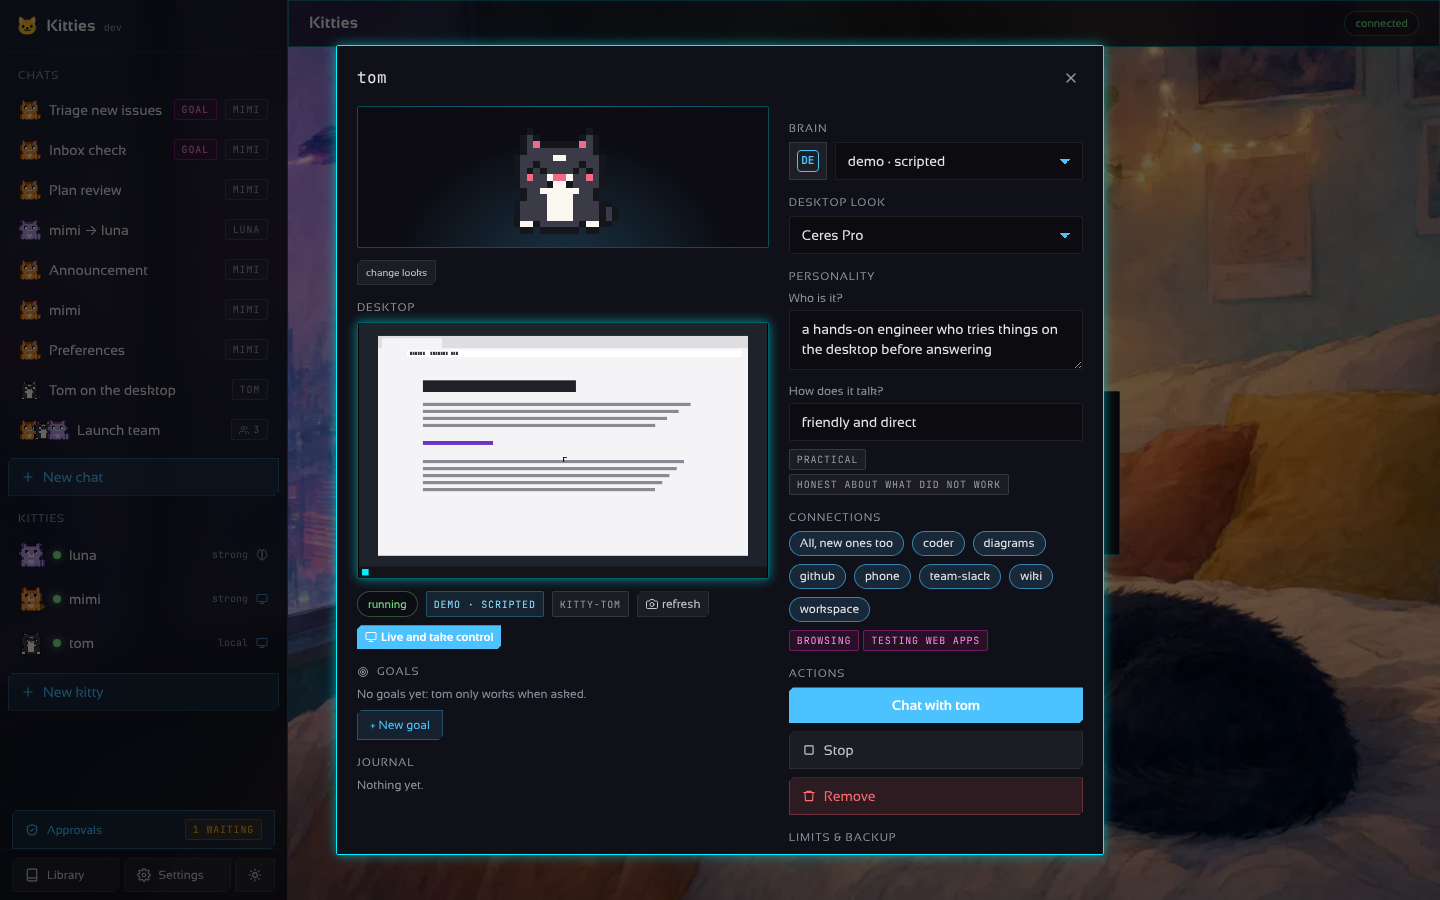
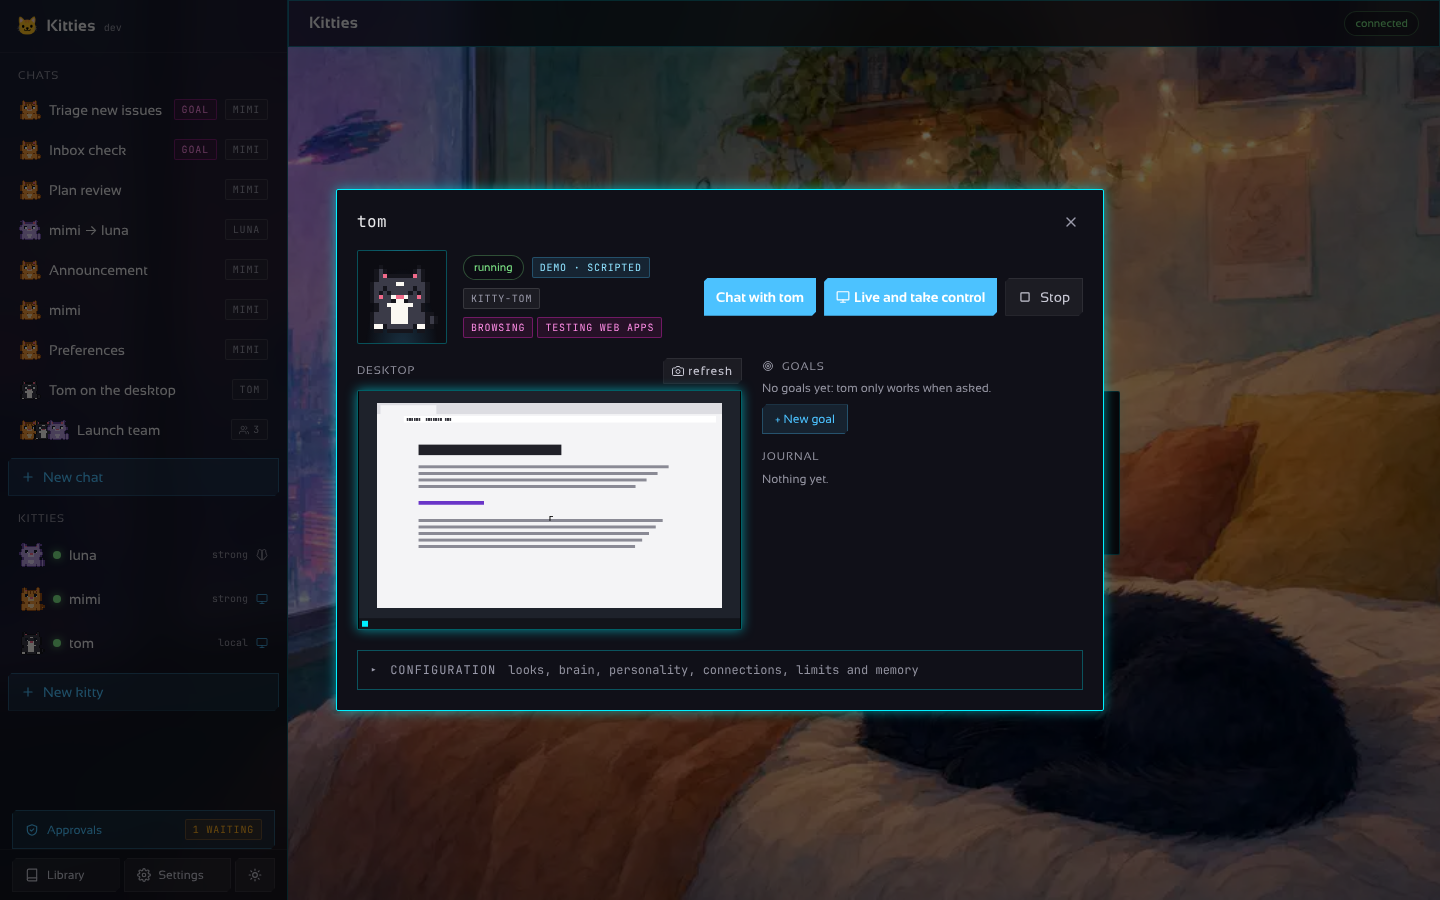
feat(desktop): kitty window shows what matters and folds its options away
The kitty's window now opens on what is worth watching: its status, brain,
skills, the chat/live/stop actions, its desktop, goals and journal. Everything
configurable (looks, brain, personality, connections, limits, memory, remove)
lives in a collapsed Configuration section laid out in two columns.

Claude-Session: https://claude.ai/code/session_01H6tmVU5JTfRPDskkjYUid1

Changed region(s): [[0.2188, 0.0311, 0.7812, 0.9644]]

diff --git a/desktop/frontend/src/Modals.tsx b/desktop/frontend/src/Modals.tsx
@@ -615,7 +615,6 @@ export function KittyDrawer({
   const [err, setErr] = useState("");
   const mood: Mood =
     kitty.status === "running" ? "happy" : kitty.status === "error" ? "error" : "sleeping";
-  const [looks, setLooks] = useState(false);
   const [models, setModels] = useState<ProviderInfo[]>([]);
   useEffect(() => {
     api
@@ -651,121 +650,126 @@ export function KittyDrawer({
   if (live) {
     return <LiveDesktop kitty={kitty} onClose={() => setLive(false)} />;
   }
+  const running = kitty.status === "running";
+  const model = models.find((m) => m.name === kitty.provider);
   return (
     <Modal title={kitty.name} onClose={onClose} wide>
-      <div class="grid md:grid-cols-[1.4fr_1fr] gap-5">
-        <div class="min-w-0">
-          <div class="avatar-stage mb-3">
-            <PixelCat
-              breed={kitty.avatar?.breed}
-              color={kitty.avatar?.color}
-              mood={mood}
-              size={112}
-            />
-          </div>
-          <div class="mood-row">
-            <button class="btn-ghost px-2 py-1" onClick={() => setLooks(!looks)}>
-              {looks ? t("done") : t("change looks")}
-            </button>
-          </div>
-          {looks && (
-            <div class="mt-3">
-              <CatPicker
-                breed={kitty.avatar?.breed || "tabby"}
-                color={kitty.avatar?.color || "orange"}
-                onChange={pick}
-              />
-            </div>
-          )}
-          <div class="section-title !mx-0 mt-4">{t("Desktop")}</div>
-          {kitty.desktop ? (
-            <Shot key={tick} path={`/v1/kitties/${kitty.id}/screenshot?t=${tick}`} big />
-          ) : (
-            <div class="live-shot flex items-center justify-center text-[var(--t4)] text-sm">
-              {t("brain only, no desktop")}
-            </div>
-          )}
-          <div class="flex gap-2 mt-3 flex-wrap">
+      <div class="flex items-center gap-4 flex-wrap" data-testid="kitty-header">
+        <div class="avatar-stage !p-2 !pt-3 shrink-0">
+          <PixelCat breed={kitty.avatar?.breed} color={kitty.avatar?.color} mood={mood} size={72} />
+        </div>
+        <div class="min-w-0 flex-1">
+          <div class="flex gap-2 flex-wrap items-center">
             <span
-              class={`state-pill ${kitty.status === "running" ? "is-ok" : kitty.status === "error" ? "is-off" : ""}`}
+              class={`state-pill ${running ? "is-ok" : kitty.status === "error" ? "is-off" : ""}`}
             >
               {kitty.status}
             </span>
             <span class="tag tag-accent">
-              {(() => {
-                const p = models.find((m) => m.name === kitty.provider);
-                return p ? modelLabel(p) : kitty.provider || t("no model");
-              })()}
+              {model ? modelLabel(model) : kitty.provider || t("no model")}
             </span>
             {kitty.desktop && <span class="tag">{kitty.container}</span>}
-            {kitty.desktop && kitty.status === "running" && (
-              <button
-                class="btn-ghost px-2 py-1 text-xs flex items-center gap-1"
-                onClick={() => setTick((t) => t + 1)}
-              >
-                <IconCamera size={12} /> {t("refresh")}
-              </button>
-            )}
-            {kitty.desktop && kitty.status === "running" && (
-              <button
-                class="btn-accent px-2 py-1 text-xs flex items-center gap-1"
-                onClick={() => setLive(true)}
-                data-testid="open-desktop"
-              >
-                <IconMonitor size={12} /> {t("Live and take control")}
-              </button>
-            )}
           </div>
-          {kitty.error && <p class="text-sm text-[var(--c-red)] mt-2">{kitty.error}</p>}
-          <GoalsPanel kitty={kitty} onOpenChat={onOpenChat} />
-          <JournalPanel kitty={kitty} onOpenChat={onOpenChat} />
-        </div>
-        <div class="text-sm">
-          <KittyBasics kitty={kitty} models={models} onChanged={onChanged} />
           {soul.skills && soul.skills.length > 0 && (
             <div class="flex flex-wrap gap-1 mt-2">
-              {soul.skills.map((t) => (
-                <span key={t} class="tag tag-magenta">
-                  {t}
+              {soul.skills.map((s) => (
+                <span key={s} class="tag tag-magenta">
+                  {s}
                 </span>
               ))}
             </div>
           )}
-          <div class="section-title !mx-0 mt-5">{t("Actions")}</div>
-          <div class="flex flex-col gap-2">
-            <button class="btn-accent px-3 py-2 text-sm" onClick={onChat}>
-              {t("Chat with {name}", { name: kitty.name })}
-            </button>
-            {kitty.status === "running" ? (
-              <button
-                class="btn-ghost px-3 py-2 text-sm flex items-center gap-2"
-                onClick={() => act(() => api.stopKitty(kitty.id))}
-              >
-                <IconStop size={14} /> {t("Stop")}
-              </button>
-            ) : (
-              <button
-                class="btn-ghost px-3 py-2 text-sm flex items-center gap-2"
-                onClick={() => act(() => api.startKitty(kitty.id))}
-              >
-                <IconPlay size={14} /> {t("Start")}
-              </button>
-            )}
+          {kitty.error && <p class="text-sm text-[var(--c-red)] mt-2">{kitty.error}</p>}
+        </div>
+        <div class="flex gap-2 flex-wrap" data-testid="kitty-actions">
+          <button class="btn-accent px-3 py-2 text-sm" onClick={onChat}>
+            {t("Chat with {name}", { name: kitty.name })}
+          </button>
+          {kitty.desktop && running && (
             <button
-              class="btn-danger px-3 py-2 text-sm flex items-center gap-2"
-              onClick={async () =>
-                (await ask(t("Remove {name} and its container?", { name: kitty.name }))) &&
-                act(() => api.removeKitty(kitty.id).then(onClose))
-              }
+              class="btn-accent px-3 py-2 text-sm flex items-center gap-1"
+              onClick={() => setLive(true)}
+              data-testid="open-desktop"
             >
-              <IconTrash size={14} /> {t("Remove")}
+              <IconMonitor size={14} /> {t("Live and take control")}
             </button>
-          </div>
-          {err && <p class="text-sm text-[var(--c-red)] mt-2">{err}</p>}
-          <LimitsForm kitty={kitty} kitties={kitties} onChanged={onChanged} />
-          <MemoryPanel kitty={kitty} />
+          )}
+          {running ? (
+            <button
+              class="btn-ghost px-3 py-2 text-sm flex items-center gap-2"
+              onClick={() => act(() => api.stopKitty(kitty.id))}
+            >
+              <IconStop size={14} /> {t("Stop")}
+            </button>
+          ) : (
+            <button
+              class="btn-ghost px-3 py-2 text-sm flex items-center gap-2"
+              onClick={() => act(() => api.startKitty(kitty.id))}
+            >
+              <IconPlay size={14} /> {t("Start")}
+            </button>
+          )}
         </div>
       </div>
+      {err && <p class="text-sm text-[var(--c-red)] mt-2">{err}</p>}
+      <div class={`grid gap-5 ${kitty.desktop ? "md:grid-cols-[1.2fr_1fr]" : ""}`}>
+        {kitty.desktop && (
+          <div class="min-w-0 md:sticky md:top-0 self-start">
+            <div class="section-title !mx-0 mt-5 flex items-center justify-between">
+              {t("Desktop")}
+              {running && (
+                <button
+                  class="btn-ghost px-2 py-1 text-xs flex items-center gap-1"
+                  onClick={() => setTick((n) => n + 1)}
+                >
+                  <IconCamera size={12} /> {t("refresh")}
+                </button>
+              )}
+            </div>
+            <Shot key={tick} path={`/v1/kitties/${kitty.id}/screenshot?t=${tick}`} big />
+          </div>
+        )}
+        <div class="min-w-0">
+          <GoalsPanel kitty={kitty} onOpenChat={onOpenChat} />
+          <JournalPanel kitty={kitty} onOpenChat={onOpenChat} />
+        </div>
+      </div>
+      <details class="config mt-5" data-testid="kitty-config">
+        <summary>
+          <span>{t("Configuration")}</span>
+          <span class="text-[var(--t4)] normal-case tracking-normal">
+            {t("looks, brain, personality, connections, limits and memory")}
+          </span>
+        </summary>
+        <div class="grid md:grid-cols-2 gap-x-6 gap-y-2 p-3 text-sm">
+          <div class="min-w-0">
+            <div class="section-title !mx-0">{t("Looks")}</div>
+            <CatPicker
+              breed={kitty.avatar?.breed || "tabby"}
+              color={kitty.avatar?.color || "orange"}
+              onChange={pick}
+            />
+            <div class="mt-4">
+              <KittyBasics kitty={kitty} models={models} onChanged={onChanged} />
+            </div>
+          </div>
+          <div class="min-w-0">
+            <LimitsForm kitty={kitty} kitties={kitties} onChanged={onChanged} />
+            <MemoryPanel kitty={kitty} />
+            <div class="mt-6">
+              <button
+                class="btn-danger px-3 py-2 text-sm flex items-center gap-2"
+                onClick={async () =>
+                  (await ask(t("Remove {name} and its container?", { name: kitty.name }))) &&
+                  act(() => api.removeKitty(kitty.id).then(onClose))
+                }
+              >
+                <IconTrash size={14} /> {t("Remove")}
+              </button>
+            </div>
+          </div>
+        </div>
+      </details>
     </Modal>
   );
 }

diff --git a/desktop/frontend/e2e/screens.spec.ts b/desktop/frontend/e2e/screens.spec.ts
@@ -98,6 +98,14 @@ test("the technical details show only when asked for", async ({ page }) => {
   await expect(page.locator(".trail").first()).not.toContainText("640, 420");
 });
 
+// openConfig unfolds the configuration of the kitty's drawer, where its options are edited.
+async function openConfig(page: Page) {
+  const config = page.getByTestId("kitty-config");
+  if (!(await config.evaluate((el) => (el as HTMLDetailsElement).open))) {
+    await config.locator("summary").click();
+  }
+}
+
 test("a kitty's drawer shows its display", async ({ page }) => {
   await open(page, `#kitty/${ids.tom}`);
   await expect(page.getByRole("dialog").first()).toBeVisible();
@@ -295,6 +303,7 @@ test("what a kitty knows about you: its level of demand, its notes and how far i
   page,
 }) => {
   await open(page, `#kitty/${ids.mimi}`);
+  await openConfig(page);
   const memory = page.getByTestId("memory");
   await expect(memory).toBeVisible();
   // Four thumbs down with a word moved the level from balanced to demanding.
@@ -466,7 +475,10 @@ test("a kitty hands a subtask to another and the chip leads to their thread", as
 
 test("the kitty's drawer: goals, the journal, limits and the backup", async ({ page }) => {
   await open(page, `#kitty/${ids.mimi}`);
-  // Its brain, who it is and what it may use are edited right here.
+  // What it does is in view; its brain, who it is and what it may use are edited under
+  // its configuration.
+  await expect(page.getByTestId("kitty-basics")).toBeHidden();
+  await openConfig(page);
   const basics = page.getByTestId("kitty-basics");
   await expect(basics.getByLabel("Brain")).toHaveValue("strong");
   await expect(basics.getByLabel("Who is it?")).toHaveValue(/patient researcher/);
@@ -1165,6 +1177,7 @@ test("a kitty that needs the person asks for help: a button takes control, and g
 test("a kitty's desktop wears the theme picked in its drawer", async ({ page }) => {
   await open(page, `#chat/${ids.desktop}`);
   await kittyRow(page, "tom").click();
+  await openConfig(page);
   const pick = page.locator("[data-modal]").getByTestId("desktop-theme");
   await expect(pick).toHaveValue("");
   const saved = page.waitForResponse(

diff --git a/desktop/frontend/src/index.css b/desktop/frontend/src/index.css
@@ -1183,6 +1183,37 @@ html.mac-inset aside .titlebar {
 .more > summary:hover {
   color: var(--t1);
 }
+/* The configuration of a kitty: closed until the person wants to change something. */
+.config {
+  border: 1px solid rgb(var(--neon-rgb) / 0.3);
+}
+.config > summary {
+  display: flex;
+  align-items: baseline;
+  gap: 12px;
+  flex-wrap: wrap;
+  padding: 10px 12px;
+  cursor: pointer;
+  list-style: none;
+  user-select: none;
+  font-family: var(--font-mono);
+  font-size: 0.75rem;
+  letter-spacing: 0.08em;
+  text-transform: uppercase;
+  color: var(--t3);
+}
+.config > summary::before {
+  content: "▸";
+}
+.config[open] > summary::before {
+  content: "▾";
+}
+.config[open] > summary {
+  border-bottom: 1px solid rgb(var(--neon-rgb) / 0.3);
+}
+.config > summary:hover {
+  color: var(--t1);
+}
 .callout {
   padding: 10px 12px;
   border: 1px solid rgb(var(--accent-rgb) / 0.35);

diff --git a/desktop/frontend/src/i18n/pt/shell.ts b/desktop/frontend/src/i18n/pt/shell.ts
@@ -135,12 +135,13 @@ const dict: Dictionary = {
   "All, new ones too": "Todas, as novas também",
 
   // Kitty: drawer
+  Configuration: "Configuração",
+  "looks, brain, personality, connections, limits and memory":
+    "aparência, cérebro, personalidade, conexões, limites e memória",
   done: "pronto",
-  "change looks": "mudar aparência",
   Desktop: "Área de trabalho",
   "brain only, no desktop": "só cérebro, sem área de trabalho",
   refresh: "atualizar",
-  Actions: "Ações",
   "Chat with {name}": "Conversar com {name}",
   Start: "Iniciar",
   "Remove {name} and its container?": "Remover {name} e o contêiner dele?",

diff --git a/desktop/frontend/src/i18n/es/shell.ts b/desktop/frontend/src/i18n/es/shell.ts
@@ -135,12 +135,13 @@ const dict: Dictionary = {
   "All, new ones too": "Todas, también las nuevas",
 
   // Kitty: drawer
+  Configuration: "Configuración",
+  "looks, brain, personality, connections, limits and memory":
+    "aspecto, cerebro, personalidad, conexiones, límites y memoria",
   done: "listo",
-  "change looks": "cambiar aspecto",
   Desktop: "Escritorio",
   "brain only, no desktop": "solo cerebro, sin escritorio",
   refresh: "actualizar",
-  Actions: "Acciones",
   "Chat with {name}": "Chatear con {name}",
   Start: "Iniciar",
   "Remove {name} and its container?": "¿Eliminar a {name} y su contenedor?",
